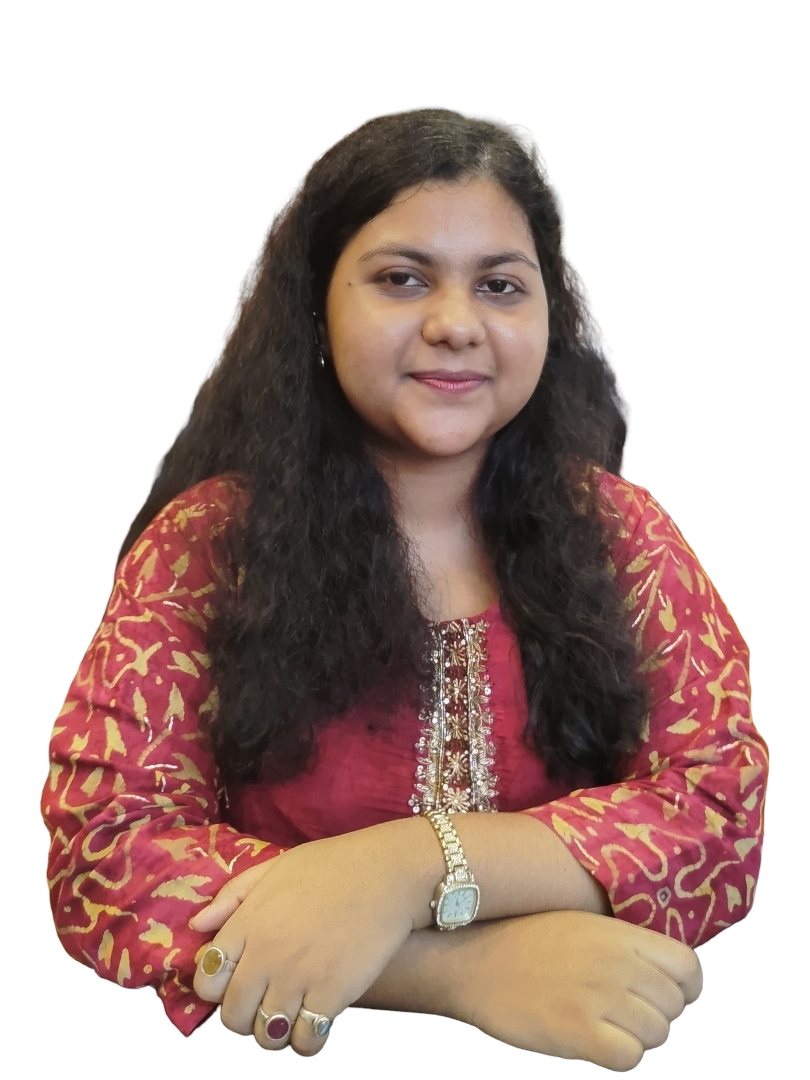
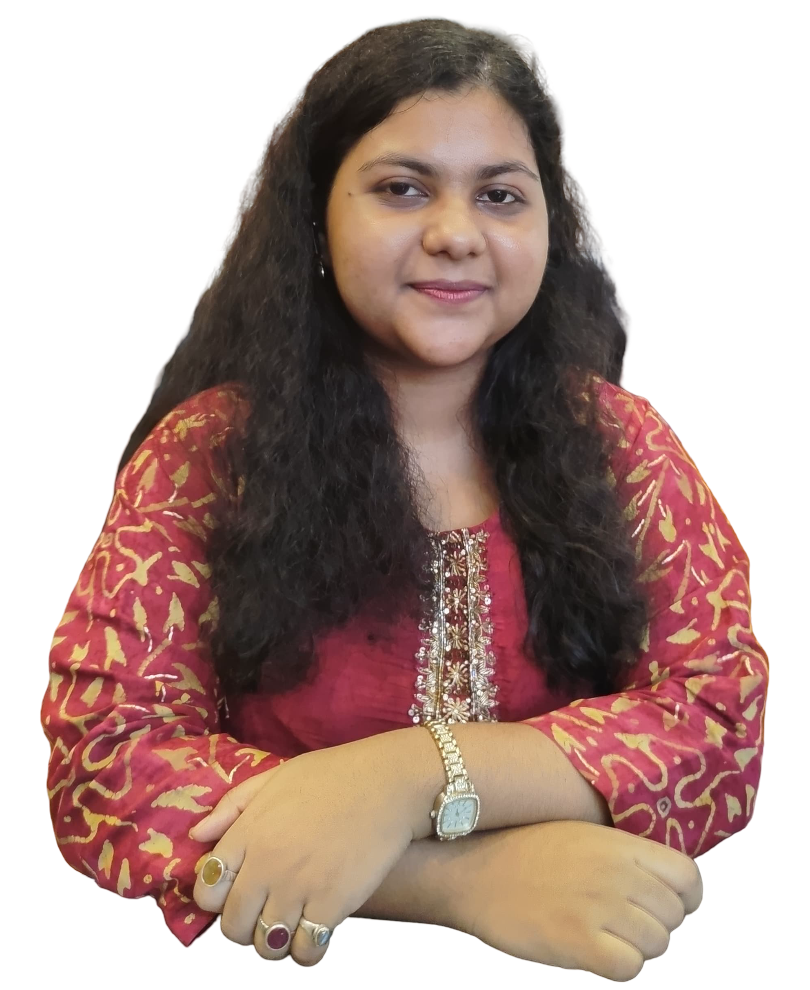
feat: update team member images and enhance carousel navigation

diff --git a/src/components/Home/Teams.jsx b/src/components/Home/Teams.jsx
@@ -89,7 +89,7 @@ const TeamCard = ({ name, role, image, socialLinks, isCenter }) => {
                 isCenter 
                     ? 'w-[220px] h-[220px] sm:w-[280px] sm:h-[280px] md:w-[320px] md:h-[320px]' 
                     : 'w-[140px] h-[140px] sm:w-[180px] sm:h-[180px] md:w-[220px] md:h-[220px]'
-            }`}>
+            } pt-10`}>
                 {/* Colored Blob Background */}
                 <div
                     className={`absolute left-1/2 -translate-x-1/2 top-[35px] transition-all duration-500 ease-out group-hover:scale-105 group-hover:rotate-6 ${blobShape} ${
@@ -103,7 +103,7 @@ const TeamCard = ({ name, role, image, socialLinks, isCenter }) => {
                 />
 
                 {/* Team Member Image */}
-                <div className="relative w-full h-full z-10 flex items-start justify-center">
+                <div className="relative w-full h-full z-10 flex items-start justify-center ">
                     <img
                         src={image}
                         alt={name}
@@ -245,7 +245,7 @@ export default function Teams() {
         <div className="bg-[#1E1E1E] py-10 sm:py-16 md:py-20 lg:py-24 px-4 sm:px-6 lg:px-8">
             <div className="max-w-full mx-auto">
                 {/* Section Heading */}
-                <div className="text-center mb-12 sm:mb-16 md:mb-20">
+                <div className="text-center mb-12 sm:mb-16 md:mb-10">
                     <h2 className="text-3xl sm:text-4xl md:text-5xl lg:text-6xl xl:text-7xl text-white mb-3 sm:mb-4 tracking-wider albert_sans font-bold">
                         The TEAM
                     </h2>
@@ -295,18 +295,27 @@ export default function Teams() {
                         </div>
                     ) : (
                         // Actual Carousel with Fixed Height
-                        <div className="flex items-center justify-center gap-4 sm:gap-6 md:gap-8 max-w-6xl mx-auto min-h-[500px] sm:min-h-[600px] md:min-h-[550px]">
+                        <div className="flex items-center justify-center gap-4 sm:gap-6 md:gap-8 max-w-7xl mx-auto min-h-[500px] sm:min-h-[600px] md:min-h-[550px] relative">
                             {/* Left Navigation Button */}
                             <button
                                 onClick={scrollPrev}
-                                className="z-20 bg-gray-800 hover:bg-gray-700 text-white p-2 sm:p-3 rounded-full transition-colors flex-shrink-0"
+                                className="z-20 bg-[#D9D9D933] hover:bg-[#D9D9D980] text-white p-2 sm:p-3 rounded-full transition-colors flex-shrink-0 absolute left-5 md:left-20 lg:left-50  xl:left-90 top-40 cursor-pointer"
                                 aria-label="Previous"
                             >
                                 <FaChevronLeft className="w-4 h-4 sm:w-5 sm:h-5 md:w-6 md:h-6" />
                             </button>
 
+                            {/* Right Navigation Button */}
+                            <button
+                                onClick={scrollNext}
+                                className="z-20 bg-[#D9D9D933] hover:bg-[#D9D9D980] text-white p-2 sm:p-3 rounded-full transition-colors flex-shrink-0 absolute right-5 md:right-20 lg:right-50 xl:right-90 top-40 cursor-pointer"
+                                aria-label="Next"
+                            >
+                                <FaChevronRight className="w-4 h-4 sm:w-5 sm:h-5 md:w-6 md:h-6" />
+                            </button>
+
                             {/* Embla Carousel */}
-                            <div className="overflow-hidden flex-1 max-w-5xl" ref={emblaRef}>
+                            <div className="overflow-hidden flex-1 max-w-6xl" ref={emblaRef}>
                                 <div className="flex items-start">
                                     {shuffledMembers && shuffledMembers.map((member, index) => (
                                         <div
@@ -326,15 +335,6 @@ export default function Teams() {
                                     ))}
                                 </div>
                             </div>
-
-                            {/* Right Navigation Button */}
-                            <button
-                                onClick={scrollNext}
-                                className="z-20 bg-gray-800 hover:bg-gray-700 text-white p-2 sm:p-3 rounded-full transition-colors flex-shrink-0"
-                                aria-label="Next"
-                            >
-                                <FaChevronRight className="w-4 h-4 sm:w-5 sm:h-5 md:w-6 md:h-6" />
-                            </button>
                         </div>
                     )}
                 </div>
